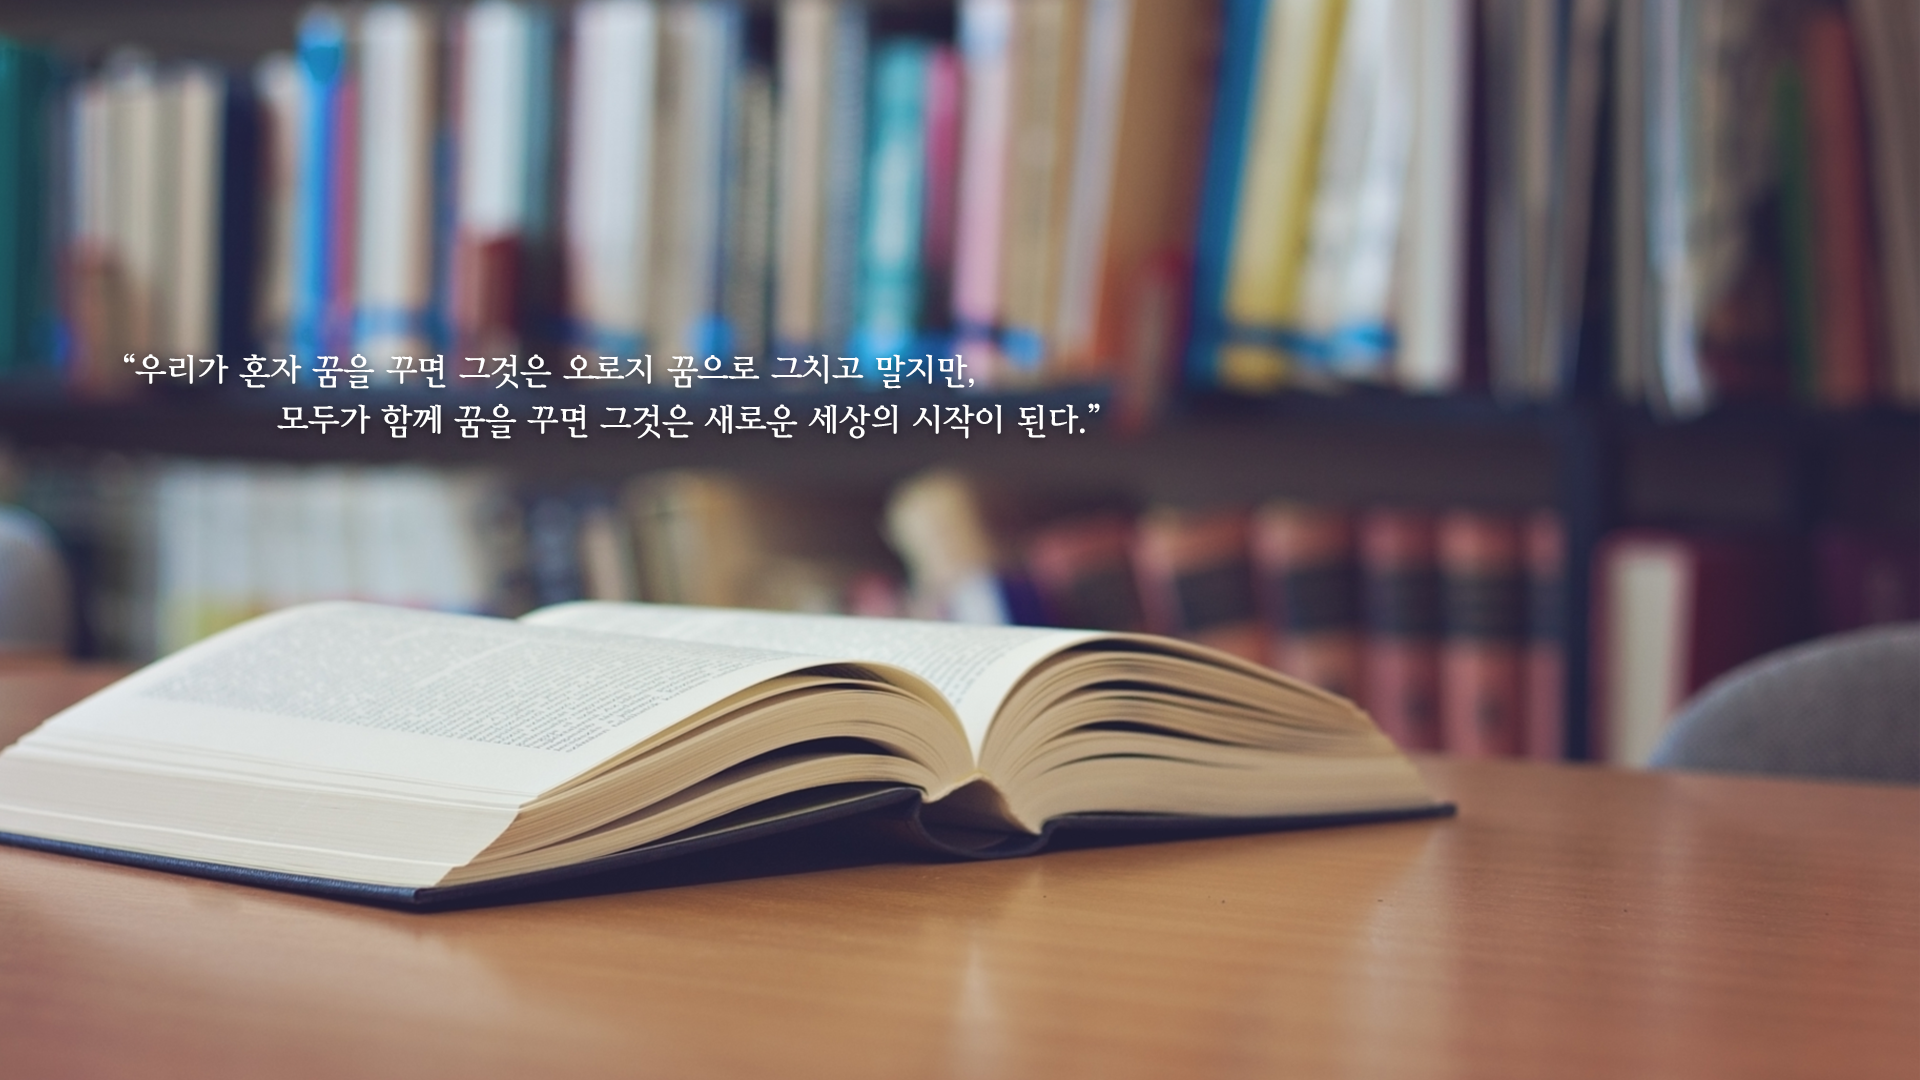
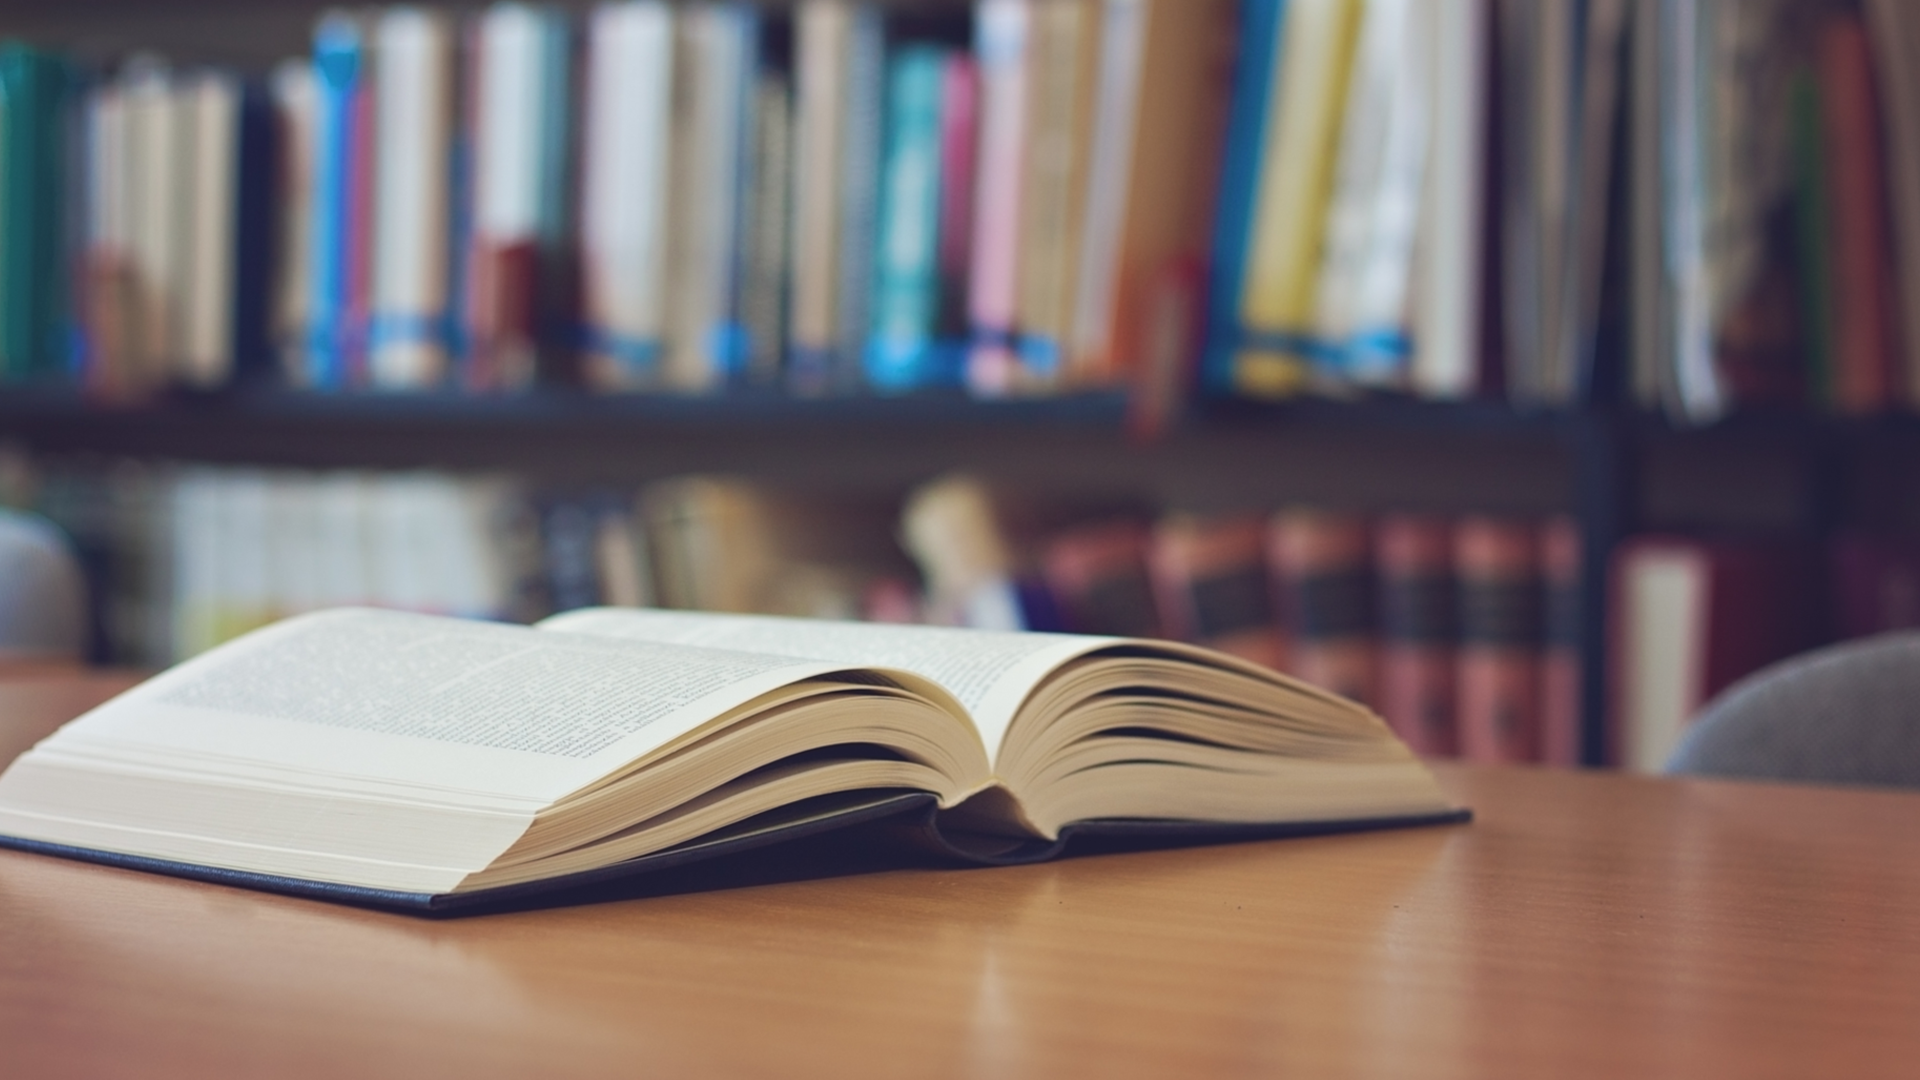
메인화면 수정

diff --git a/src/style.css b/src/style.css
@@ -103,22 +103,18 @@ html, body, #root {
   margin-bottom: 0;
 }
 
-.home_main_text {
-  text-align: center;
-  margin-top:80px;
+.home_text {
+  background-image: url(./images/img_text.png);
+	background-position: top;
+  background-repeat: no-repeat;
+	margin-left:10%;
+	margin-top:15vh;
+	width:920px;
+	height:97px;
+	background-color: transparent;
 }
 
-.home_main_text h3 {
-  font-size: 2.7em;
-}
 
-/* 민우 수정 시작 */
-
-.page_home .home_main_text a.btn_red.btn-lg {
-	width:40%;
-}
-
-/* 민우 수정 끝 */
 
 /* Page Payment */
 
@@ -804,13 +800,8 @@ a.btn_red.btn.btn-lg:hover {
 		background-image: url(images/bg_home_mobile.png);
 		background-position: bottom;
 	}
-	
-	/* page_test */
-	
-	
-	
-	
-	
+}
+		
 	/* page_payment */
 	
 	
@@ -822,8 +813,6 @@ a.btn_red.btn.btn-lg:hover {
 		margin-top:30%;
 	}
 	
-
-}
 
 @media (max-width: 1200px) {
 	

diff --git a/src/components/Contents/Home.js b/src/components/Contents/Home.js
@@ -7,14 +7,16 @@ class Home extends Component {
     return (
       <div className="page_home noscroll">
         <Jumbotron className="home_main">
-          <Grid>
-            <div className="home_main_text">
-             <p>
-               
-              </p>
-            </div>
-          </Grid>
-        </Jumbotron>
+         	<div className="row">
+           	<div className="col-md-8">
+							<Jumbotron className="home_text">
+           		</Jumbotron>
+						</div>
+						<div className="col-md-4">
+								
+						</div>	
+					</div>
+       </Jumbotron>
       </div>
     );
   }
